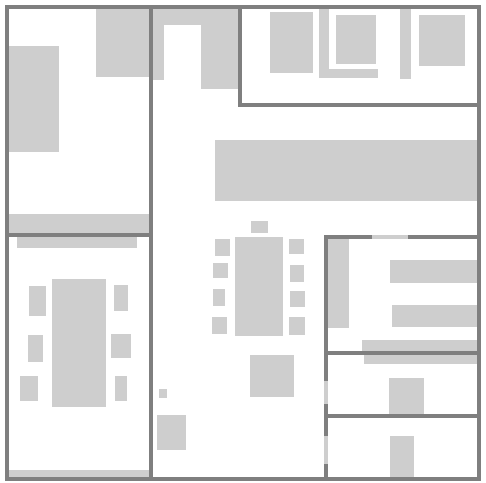
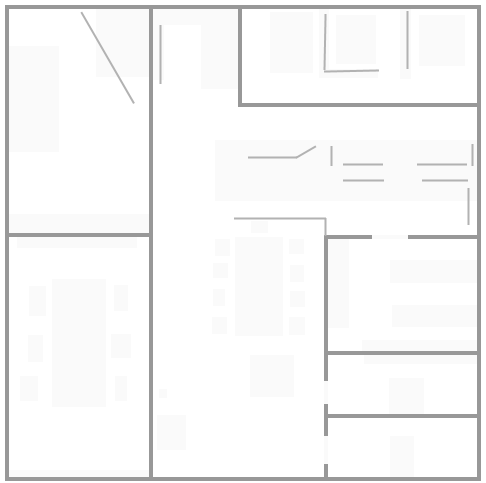
Take signal loss due to obstacles into consideration

diff --git a/frontend/src/main.js b/frontend/src/main.js
@@ -1,9 +1,9 @@
 $(function() {
-  let originalMapCanvas = document.getElementById('original-map-canvas');
+  window.originalMapCanvas = document.getElementById('original-map-canvas');
   let canvas = document.getElementById('map-canvas');
   let originalMapCtx = originalMapCanvas.getContext('2d');
   let img = document.getElementById("original-image");
-  let imgData = null;
+  window.imgData = null;
   let isDragging = false;
   let startMouseDownPos = null;
   let beaconController = new BeaconController();
@@ -26,7 +26,7 @@ $(function() {
     originalMapCanvas.width = img.width;
     originalMapCanvas.height = img.height;
     originalMapCtx.drawImage(img, 0, 0);
-    imgData = originalMapCtx.getImageData(0, 0, originalMapCanvas.width, originalMapCanvas.height);
+    window.imgData = originalMapCtx.getImageData(0, 0, originalMapCanvas.width, originalMapCanvas.height);
     Event.fire('render');
   });
 

diff --git a/frontend/src/beaconModel.js b/frontend/src/beaconModel.js
@@ -13,5 +13,16 @@ Beacon.prototype.getRelativeSignalStrength = function(position) {
     20 * Math.log10(this.frequency) -
     147.55
   );
-  return -freeSpacePathLoss;  // in decibels, 0 being strong and -80 being really weak
+  let angle = Math.atan2(position.y - this.position.y, position.x - this.position.x);
+  let obstacleLoss = 0.0;
+  for (let i = 0; i < distanceInPixels; i++) {
+    let index1D = to1D(
+      0 | Math.round(this.position.x + i * Math.cos(angle)),
+      0 | Math.round(this.position.y + i * Math.sin(angle)),
+      window.originalMapCanvas.width
+    );
+    // 2 db obstacle loss per pixel if black. 0 db obstacle loss if white.
+    obstacleLoss += 2 * (255 - window.imgData.data[index1D]) / 255;
+  }
+  return -freeSpacePathLoss - obstacleLoss;  // in decibels, 0 being strong and -80 being really weak
 };
